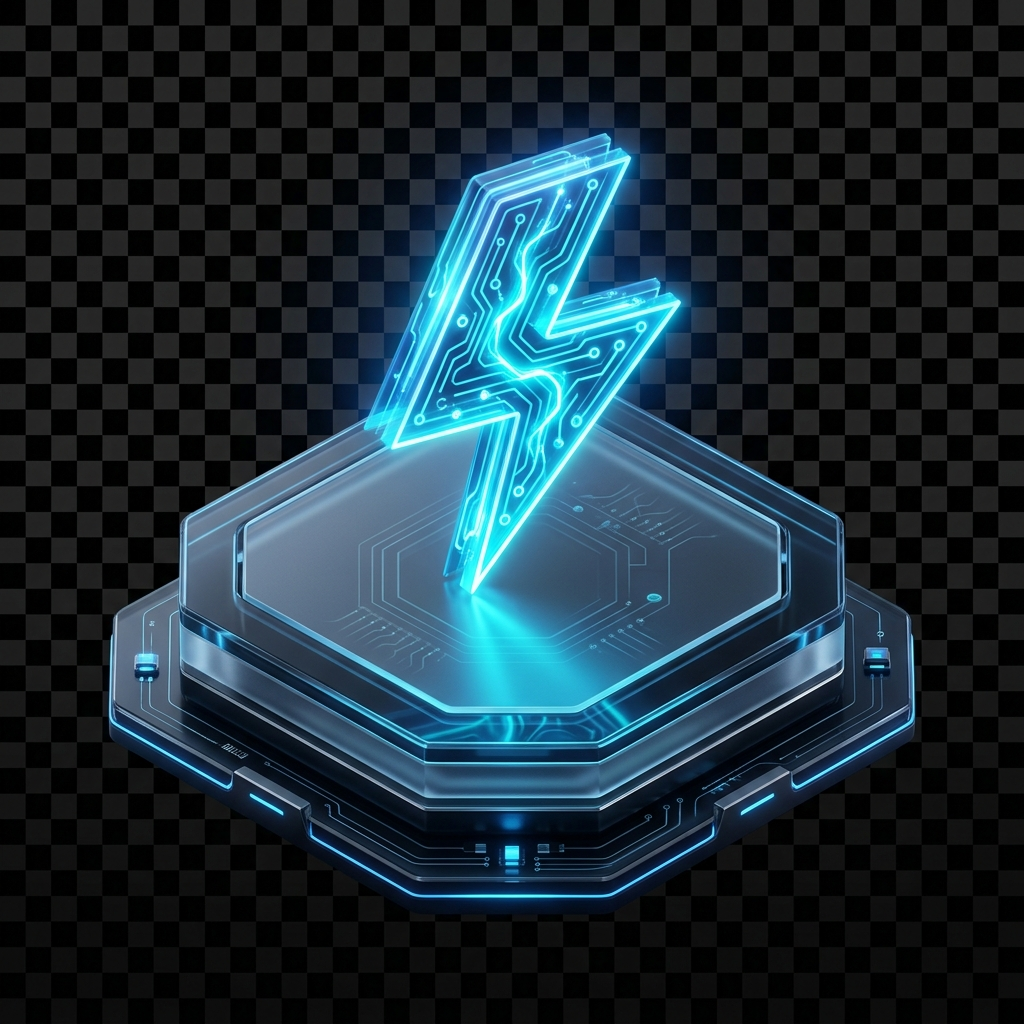
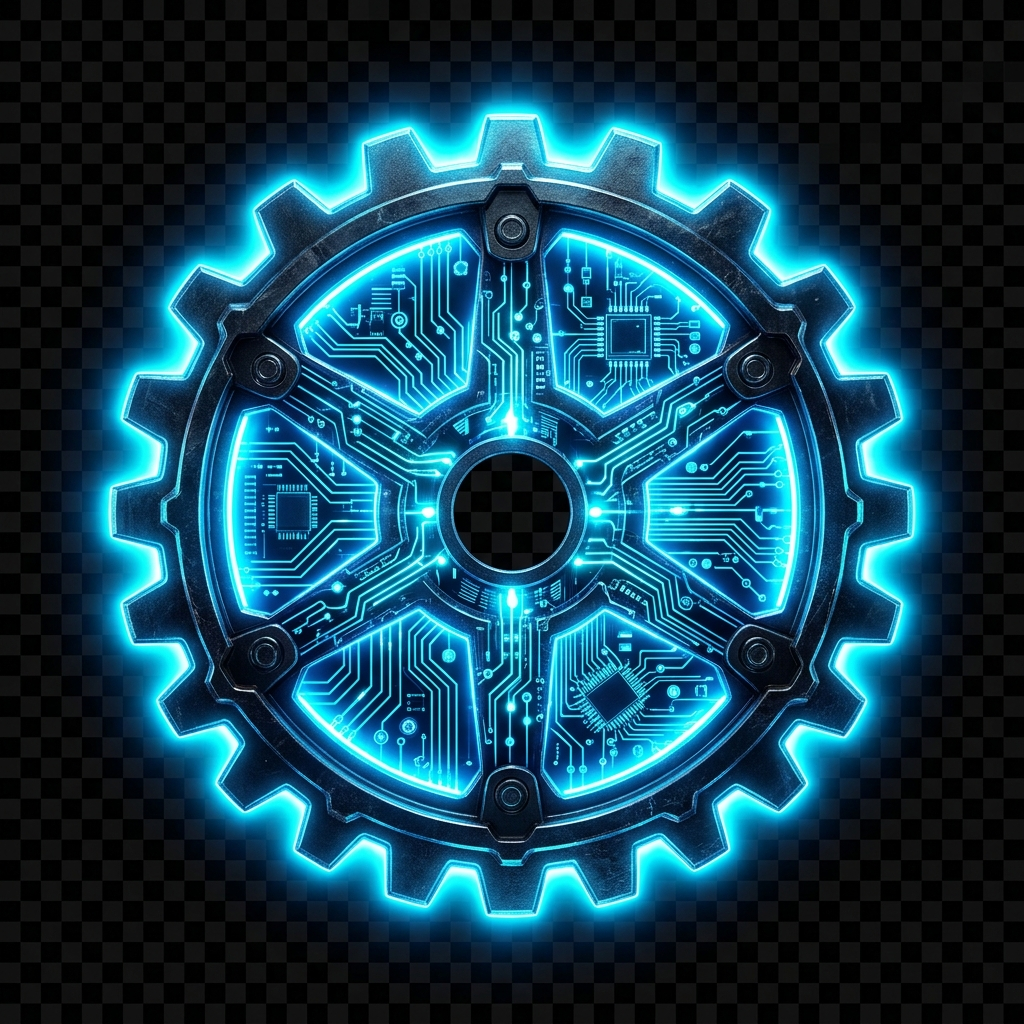
docs: finalize pro documentation and visual control plane manual
- Complete overhaul of docs/web-ui.md with forensic diagnostic guide
- Updated ARCHITECTURE.md and DEVELOPERS.md for modular runners
- Integrated premium functional iconography (Lambda@Edge and CFF)
- Added authentic data-populated UI screenshot in assets/

diff --git a/docs/web-ui.md b/docs/web-ui.md
@@ -1,60 +1,111 @@
-# Visual Control Plane (WebUI)
+# CloudFrontize Pro: Visual Control Plane
 
-CloudFrontize includes an optional, high-performance browser-based UI designed to give you **instant visibility** into your Edge logic. Instead of just relying on terminal logs, you can watch your traffic flow and manipulate headers in real-time.
+The **CloudFrontize Pro WebUI** (Visual Control Plane) is a high-fidelity diagnostic environment designed for elite Edge engineering. It transforms the "black box" of CloudFront deployments into a transparent, interactive **Functional Highway**.
 
-| Visual Control Plane |
-|---------------------|
-| ![CloudFrontize Web UI](https://raw.githubusercontent.com/felipecarrillo100/cloudfrontize/main/assets/cloudfrontize-webui.jpg?v=1) |
+![CloudFrontize Pro Dashboard](../assets/cloudfrontize-pro-ui.png)
 
 ---
 
 ## 🚀 Getting Started
 
-To enable the WebUI, pass the `--webui` flag with your desired port when starting the server:
+The WebUI is disabled by default to maintain CLI performance. To enable the Visual Control Plane, append the `--webui` flag followed by your desired port:
 
 ```bash
-cloudfrontize ./www --webui 3001
+cloudfrontize --edge ./my-hooks --webui 3001
 ```
 
-Once running, navigate to `http://localhost:3001` in your browser.
+Once running, navigate to `http://localhost:3001/` to access the live dashboard.
 
 ---
 
-## 🧠 Header Intelligence
+## 🛣 1. The Fidelity Cloud (The Highway)
 
-The "Header Intelligence" panel is one of the most powerful features of the WebUI. It allows you to **inject or override headers** on-the-fly without restarting the server or modifying your code.
+At the heart of the Pro interface is the **Fidelity Cloud**, a real-time visualization of your distribution's request pipeline.
 
-### 1. Request Header Injection
-Simulate different client environments or trigger specific logic in your Lambda@Edge `viewer-request` or `origin-request` hooks.
+### Nodes & Stages
+The highway visualizes the 4-step CloudFront lifecycle:
+- **📱 Viewer**: The point of origin for your simulated traffic.
+- **Stations**: Each Lambda@Edge (λ) or CloudFront Function (⚙) is represented as a "station" on the highway.
+    - **Orange Station (λ)**: Represents a Lambda@Edge hook.
+    - **Blue Station (⚙)**: Represents a CloudFront Function block.
+- **☁ Pro Dist**: The simulated CloudFront distribution core.
+- **📦 Origin**: Your downstream source (S3, MinIO, or a Multi-Origin setup).
 
-*   **How to use:** Enter the `Key` (e.g., `cloudfront-viewer-country`) and `Value` (e.g., `FR`) in the Request Headers section of the UI.
-*   **Use Case:** Test Geo-routing, User-Agent detection, or Authorization tokens instantly.
-*   **Note:** These headers apply to the *next* request made to your main CloudFrontize port.
+### 🖱 Node Interactions (Context Menus)
+Every functional node is interactive. **Right-click** on any station to access the **Node Actions** menu:
 
-### 2. Response Header Injection
-Force specific response behaviors or simulate origin headers that your `viewer-response` hooks need to process.
-
-*   **How to use:** Add items to the Response Headers list.
-*   **Use Case:** Test how your secure-header hooks handle existing `Cache-Control` or `Content-Security-Policy` headers from the "origin."
-
----
-
-## 📈 Real-Time Traffic Inspection
-
-The UI uses **Server-Sent Events (SSE)** to provide a live feed of every request hitting the emulator.
-
-*   **Trace View:** See the internal URI transformation path (e.g., how a CFF rewritten path flows into a Lambda@Edge hook).
-*   **Telemetry Snapshot:** Instantly view the CPU time consumed by your hooks, helping you stay within the strict AWS 1ms/5ms limits.
-*   **Header Lifecycle:** Inspect exactly how headers looked at the Viewer, Origin, and back, highlighting every mutation made by your Edge logic.
-*   **Body Inspection:** For POST and PUT requests, the UI displays a snippet (first 1KB) of the request body, which is essential for debugging webhook validations or body-based routing in Lambda@Edge.
-
----
-
-## 🛠 Troubleshooting the UI
-
-*   **Port Conflicts:** Ensure the port passed to `--webui` is different from your main server port (default 3000).
-*   **CORS:** If your web application relies on CORS, ensure you run cloudfrontize with the `--cors` flag to avoid blocked UI telemetry.
+| Action | Description |
+| :--- | :--- |
+| **View Source** | Opens a real-time code viewer to inspect the active handler's logic. |
+| **Copy Path** | Copies the absolute filesystem path to the clipboard for use in your IDE. |
+| **Open in Editor** | Attempts to open the source file directly in your default system editor. |
+| **Production Export** | A sub-menu offering three levels of code preparation for AWS deployment: |
+| &nbsp;&nbsp;&nbsp; *1. Ready* | Bakes all `__VAR__` placeholders into production strings. |
+| &nbsp;&nbsp;&nbsp; *2. Minified* | Strips comments/whitespace to reduce payload size. |
+| &nbsp;&nbsp;&nbsp; *3. Optimized* | Performs full Uglify/Mangle for maximum performance. |
+| **Disable Hook** | Bypasses the hook temporarily without stopping the server. |
+| **Isolate** | Disables all *other* hooks, allowing you to test one specific node in isolation. |
 
 ---
 
-[⬅ Back to Main README](../README.md)
+## 🧠 2. Header Intelligence (The Simulator)
+
+The **Intelligence Panel** in the sidebar is your primary "Simulation Machine". It allows you to inject complex environmental states without changing your code.
+
+### 🌎 Geo Presets
+Quickly test location-based routing by clicking one of the six built-in Geo Presets:
+- **USA, MX, ES, DE, FR, JP**
+- Clicking a preset automatically injects the corresponding `CloudFront-Viewer-Country` and `CloudFront-Viewer-Region` headers into the live simulation.
+
+### 📱 Device Emulation
+Simulate how your edge logic responds to different hardware profiles:
+- **Mobile, Tablet, Desktop, SmartTV**
+- These presets populate headers like `CloudFront-Is-Mobile-Viewer` and `CloudFront-Is-Tablet-Viewer`.
+
+### 🔄 Persistence & Reset
+- **Apply Changes**: When you modify headers, the button will **Pulse (Orange)**. Click it to synchronize the simulation with the local engine.
+- **Reset**: Instantly clears all simulated headers and reverts to a clean "Vanilla" state.
+- **Import/Export**: Port your simulation setup between team members using the standard CloudFrontize Header JSON format.
+
+---
+
+## 🕵 3. Forensic Traffic Audit
+
+The lower section of the dashboard provides a deep-dive into every request that passes through the highway.
+
+### 🌳 The Execution Journey
+Click any request row to expand the **Trace View**. This reveals a vertical tree showing exactly which hooks were executed and how they mutated the request.
+
+### 📸 Header Snapshots (Fidelity Analysis)
+Unlike a standard debugger, CloudFrontize Pro captures an **immutable snapshot** of the request/response state at *every stage* of the journey.
+1.  Expand a request.
+2.  In the **Execution Journey** tree, click on any specific stage (e.g., "Origin Request").
+3.  The **State Inspector** will display the exact URI and Headers that existed *after* that stage completed.
+4.  Compare the **Viewer Provided** headers vs. the **Terminal Response** to see the full transformation lifecycle.
+
+### 🛡 Fidelity Audit
+The **AWS Audit** tool (found under "Cloud Actions") runs an automated linter against your active distribution. It validates:
+- Forbidden header mutations (e.g., trying to modify `Host` or `Content-Length`).
+- Missing mandatory headers for specific hook types.
+- Payload size limit violations (40KB for Viewer Request, 1MB for response generation).
+
+> [!TIP]
+> Use the **Simulation Reset** button in the header if you want to clear your traffic history and start a fresh forensic session.
+
+---
+
+## 🚨 4. Auto-Linting & Hot Reload
+
+CloudFrontize Pro features a continuous **Background Watcher** that monitors your source files.
+
+### 🚩 Syntax Alert Banner
+If you save a file with a JavaScript syntax error or an AWS Fidelity violation (e.g., using `require` in a CFF block), a **Red Alert Banner** will immediately slide down at the top of the traffic list.
+
+- **Diagnostic Details**: The banner shows the exact file, error type, and the **Line Number**.
+- **Source Trace**: An embedded snippet of the offending code is shown, helping you find and fix the bug in seconds.
+- **Safe State**: While an error is active, that specific module is bypassed (returning a **502 Bad Gateway**), preventing the entire simulation from crashing.
+
+### 🔄 True Hot Reload
+The moment you fix the code in your IDE and hit save, the **Alert Banner automatically closes**, and the updated hook is instantly re-injected into the pipeline—no server restart required.
+
+---

diff --git a/ARCHITECTURE.md b/ARCHITECTURE.md
@@ -9,11 +9,11 @@ This document describes the design philosophy, high-fidelity simulation models, 
 CloudFrontize processes incoming HTTP requests through a strict, sequential pipeline mimicking the internal hook structure of AWS.
 
 ### 1.1 Hook Chain Sequence
-1. **Viewer Request (CFF):** ES5.1 restricted sandbox, ultra-low latency. Can return a response instantly (Short-circuit).
-2. **Viewer Request (L@E):** Node.js runtime, strict 40KB body limits, module-access enforcement.
+1. **Viewer Request (CFF):** Lightweight "CloudFront Function". ES5.1 restricted sandbox, ultra-low latency. Can return a response instantly (Short-circuit).
+2. **Viewer Request (L@E):** "Lambda@Edge" Node.js runtime, strict 40KB body limits, module-access enforcement.
 3. **Origin Provider (S3 or Local):** Resolves the request destination (e.g., serving static files or proxying an S3 bucket).
 4. **Origin Response (L@E):** Mutates origin response status, headers, and body before caching/delivery.
-5. **Viewer Response (CFF):** Final ES5.1 lightweight header manipulations.
+5. **Viewer Response (CFF):** Final "CloudFront Function" lightweight header manipulations.
 
 ### 1.2 Header Lifecycle Sequence (Mermaid)
 The following diagram visualizes how headers (including "Sticky" overrides) navigate the pipeline:
@@ -55,10 +55,10 @@ The central authority for header integrity. It handles:
 - **Reconciliation:** Enforces AWS Forbidden Header rules, ensuring simulation parity with real CloudFront restrictions.
 - **Flattening:** Generates optimized "Neutral Format" maps for telemetry and response delivery.
 
-### C. The Runners (The `BaseRunner` Pattern)
-Runners execute user-provided code within isolated environments:
-- **`EdgeRunner.ts`:** Implements a high-fidelity Node.js `vm` sandbox. It utilizes a **"Hybrid Return"** pattern, returning both a nested `HeaderMap` (for hook chain continuity) and flattened root keys (for legacy test compatibility).
-- **`CFFRunner.ts`:** Enforces strict ES5.1 compliance and microsecond CPU timing constraints (<1ms).
+### C. The Runners (The `HotRunner` Pattern)
+Runners execute user-provided code within isolated environments with automatic hot-reloading:
+- **`EdgeRunner.ts`:** Implements a high-fidelity Node.js `vm` sandbox for Lambda@Edge. It utilizes a **"Hybrid Return"** pattern, returning both a nested `HeaderMap` (for hook chain continuity) and flattened root keys (for legacy test compatibility).
+- **`CFFRunner.ts`**: Executes the high-performance **CloudFront Function** logic, enforcing strict ES5.1 compliance and microsecond CPU timing constraints (<1ms).
 
 ### D. Origin Providers
 - **`LocalProvider`:** Efficiently serves local workspace assets using `serve-handler`.
@@ -69,7 +69,7 @@ Runners execute user-provided code within isolated environments:
 ## 3. Technology Stack & Tooling 🛠
 
 - **Runtime:** Node.js (v20+) matching AWS Lambda@Edge parity.
-- **Execution:** `tsx` for high-performance, in-memory TypeScript execution.
-- **Testing:** `jest` + `@swc/jest` for high-throughput, parallel E2E verification (140/140 bench).
-- **Bundling:** `tsup` (esbuild) for minified, dependency-stripped production binaries.
-- **Telemetry:** SSE (Server-Sent Events) live streaming of measurements.
+- **Build Engine:** `tsup` (esbuild + swc) for high-performance, minified production bundling.
+- **Execution:** `tsx` for localized, high-speed development and test runners.
+- **Testing:** `jest` + `@swc/jest` for high-throughput, parallel E2E verification.
+- **Telemetry:** SSE (Server-Sent Events) live streaming of measurements, including **Forensic Header Snapshots** for every execution stage.

diff --git a/DEVELOPERS.md b/DEVELOPERS.md
@@ -9,15 +9,16 @@ Welcome to the CloudFrontize development team! This guide explains how to build,
 CloudFrontize utilizes a service-oriented architecture to maintain state across complex request lifecycles.
 
 ### 1. The Service Layer (`src/core/`)
-- **`HeaderManager.ts`**: The "Guardian" of header fidelity. Centralizes normalization, forbidden rule enforcement, and multi-value preservation.
-- **`HotRunner.ts`**: Abstract base class providing binary-safe hot-reloading, registry management, and global cache purging.
-- **`EdgeRunner.ts`**: High-fidelity Lambda@Edge VM sandbox. Uses a **"Hybrid Return"** pattern for hook mutations.
-- **`CFFRunner.ts`**: Strict ES5.1 runtime with microsecond timing and memory guards.
+- **`HeaderManager.ts`**: The central authority for header normalization, forbidden rule enforcement, and multi-value preservation.
+- **`HotRunner.ts`**: Abstract class providing binary-safe hot-reloading and V8 JIT pre-heating logic.
+- **`EdgeRunner.ts`**: High-fidelity Node.js `vm` sandbox for Lambda@Edge simulator.
+- **`CFFRunner.ts`**: Lightweight **CloudFront Function** runtime with ES5.1 strictness.
+- **`CodeProcessor.ts`**: Core engine for baking environment variables and enforcing ES5.1 syntax constraints.
 
 ### 2. The Orchestration Layer (`src/pipeline/`)
 - **`Orchestrator.ts`**: The "Command Center". Manages the sequential hook highway and maintains the unified Sticky Header state.
-- **`WebUI.ts`**: Handles the developer control plane and provides real-time state synchronization via Server-Sent Events (SSE).
-- **`Telemetry.ts`**: Metrics aggregator for execution timing, bandwidth measurement, and hook tracking.
+- **`Telemetry.ts`**: Real-time metrics aggregator for execution timing and bandwidth tracking.
+- **`OriginSelector.ts`**: Logic for matching request paths against Cache Behaviors to select the correct origin provider.
 
 ---
 
@@ -51,11 +52,13 @@ Start the emulator in watch mode using the `tsx` loader:
 npm run dev
 ```
 
-### 3. WebUI Development (Frontend)
-The dashboard is a React application powered by Vite:
-```bash
-npm run ui:dev
-```
+### 3. WebUI Pro Development
+The dashboard is a professional React application:
+- **Source**: `ui-src/`
+- **Stack**: Vite, React, TailwindCSS, Lucide Icons.
+- **Build**: `npm run ui:build` (Outputs to root `ui/` directory).
+- **Live Dev**: `npm run ui:dev`
+- **Error Diagnostics**: The WebUI connects to the backend via SSE to display **Syntax Alert Banners** and **Hot-Reload Trace Snippets** in real-time.
 
 ---
 
